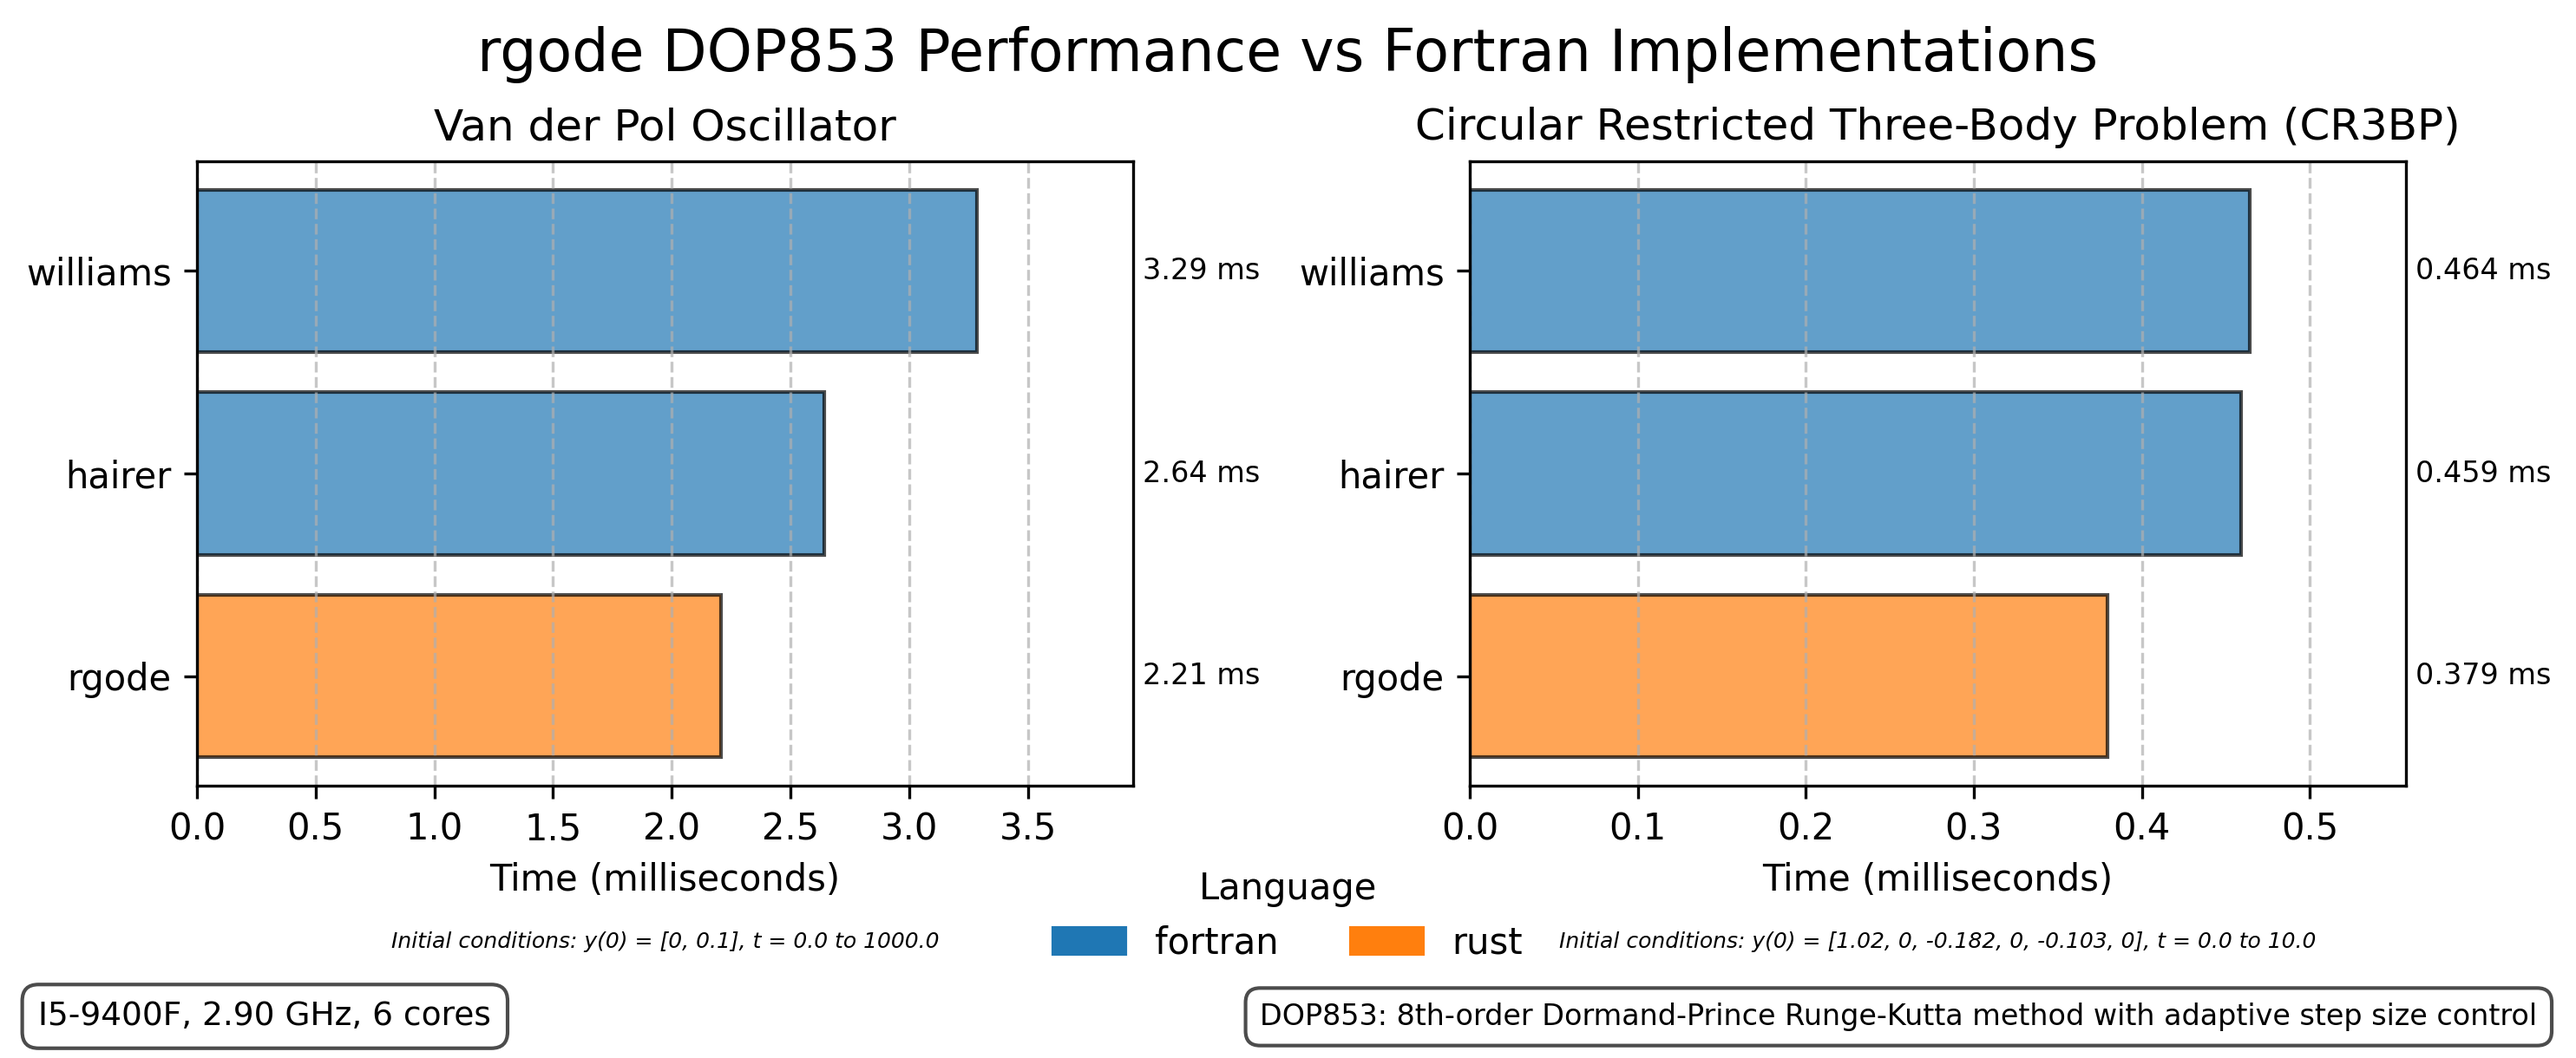
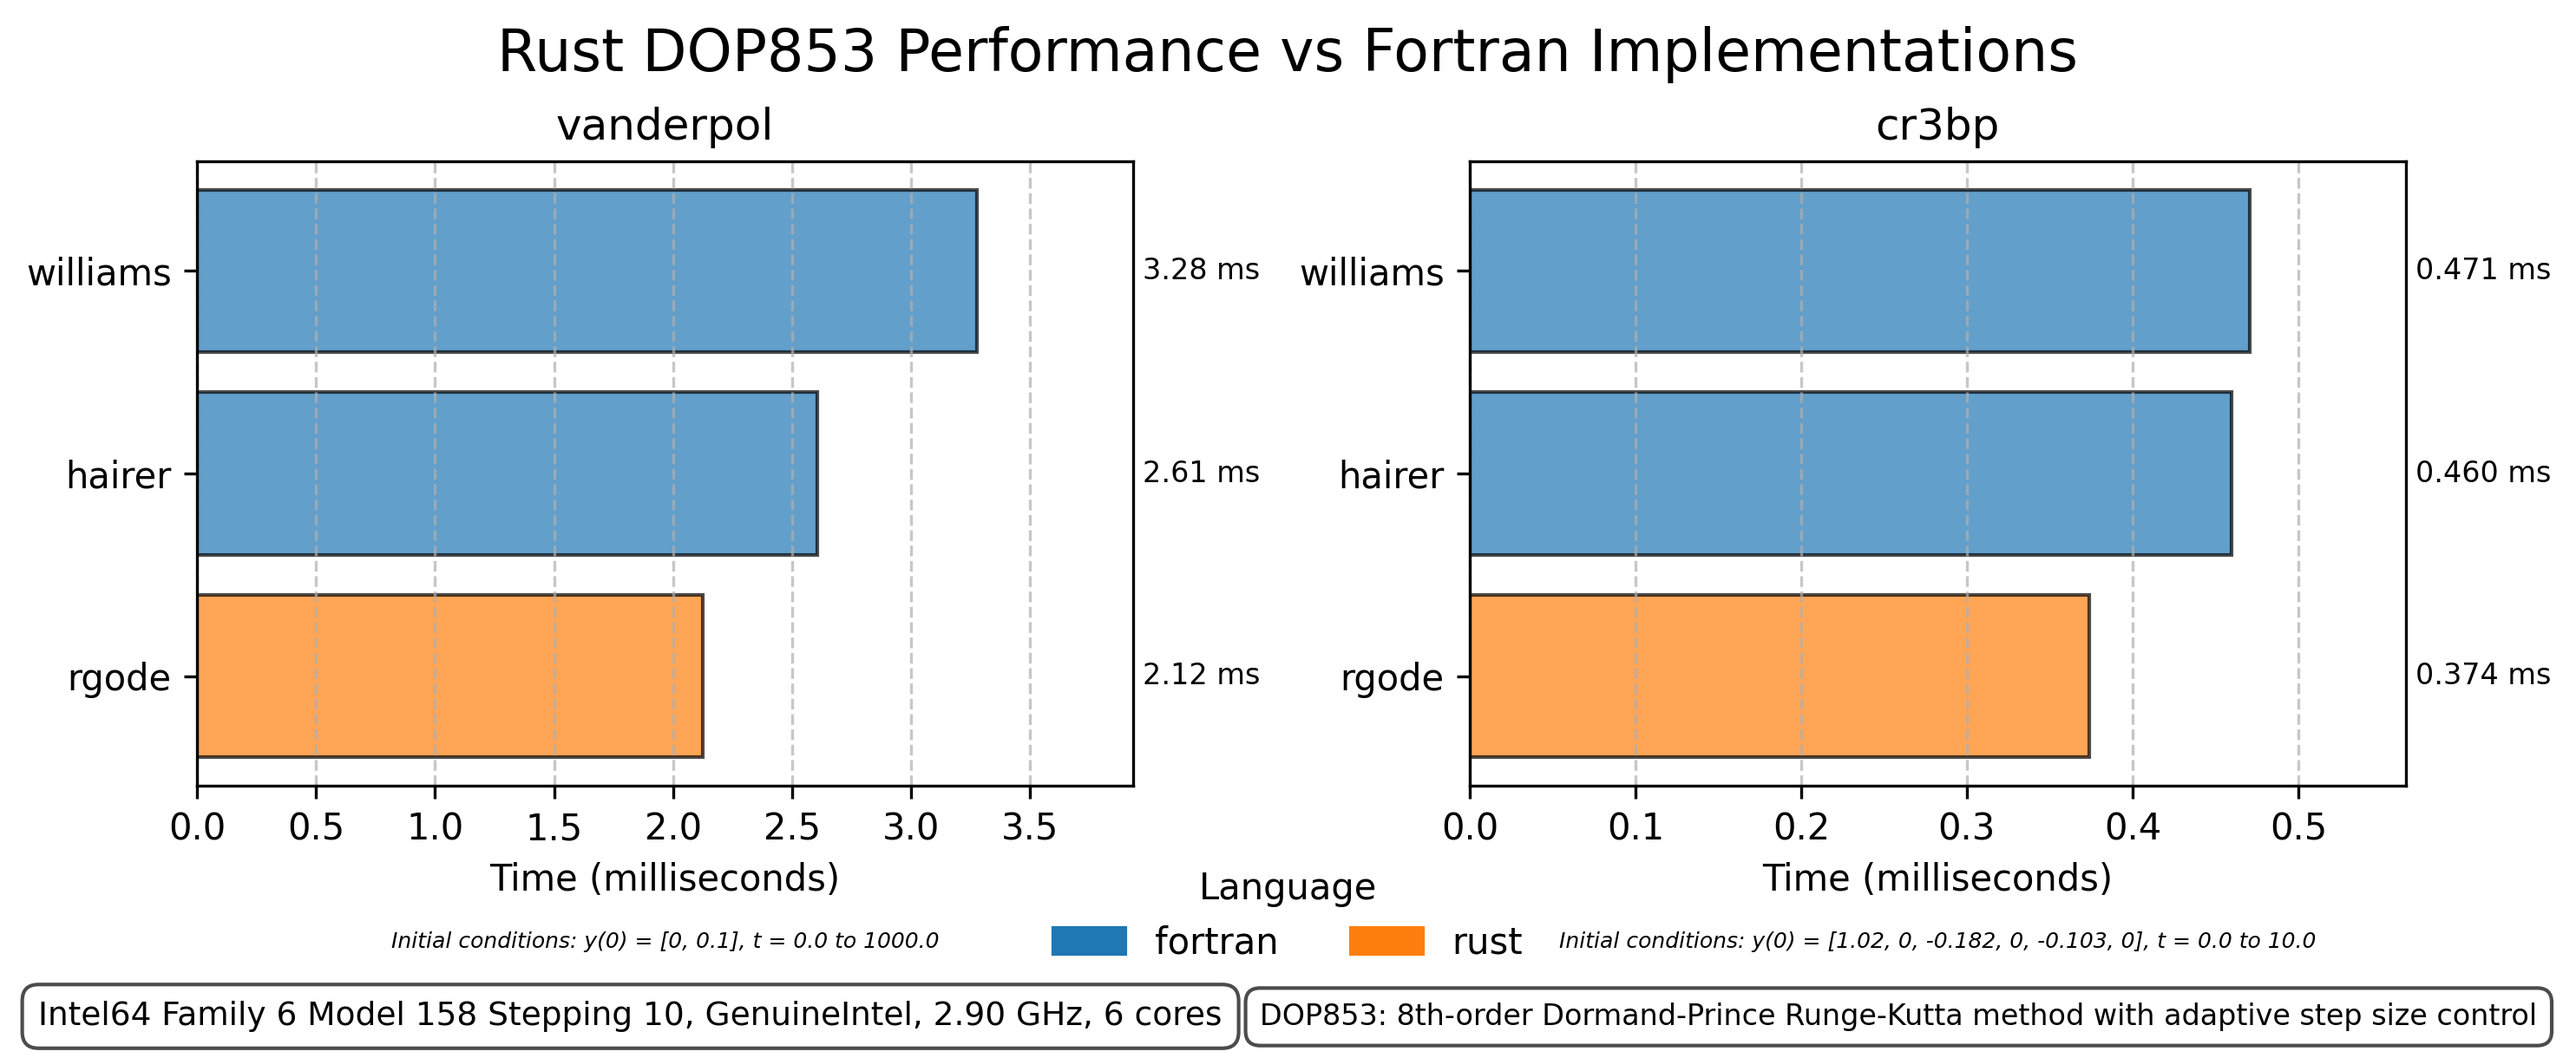
Update DOP853 Comparison Benchmark png

diff --git a/comparison/ode/plot_benchmark_results.py b/comparison/ode/plot_benchmark_results.py
@@ -187,7 +187,7 @@ def create_bar_graph(df, hardware_info=None, exclude=None, output_path=None, pro
         axes[i].set_visible(False)
     
     # Add overall title
-    fig.suptitle(f'rgode DOP853 Performance vs Fortran Implementations', fontsize=16, y=0.98)
+    fig.suptitle(f'Rust DOP853 Performance vs Fortran Implementations', fontsize=16, y=0.98)
     
     # Create language legend
     language_patches = [plt.Rectangle((0, 0), 1, 1, color=color_map[lang]) for lang in languages]
